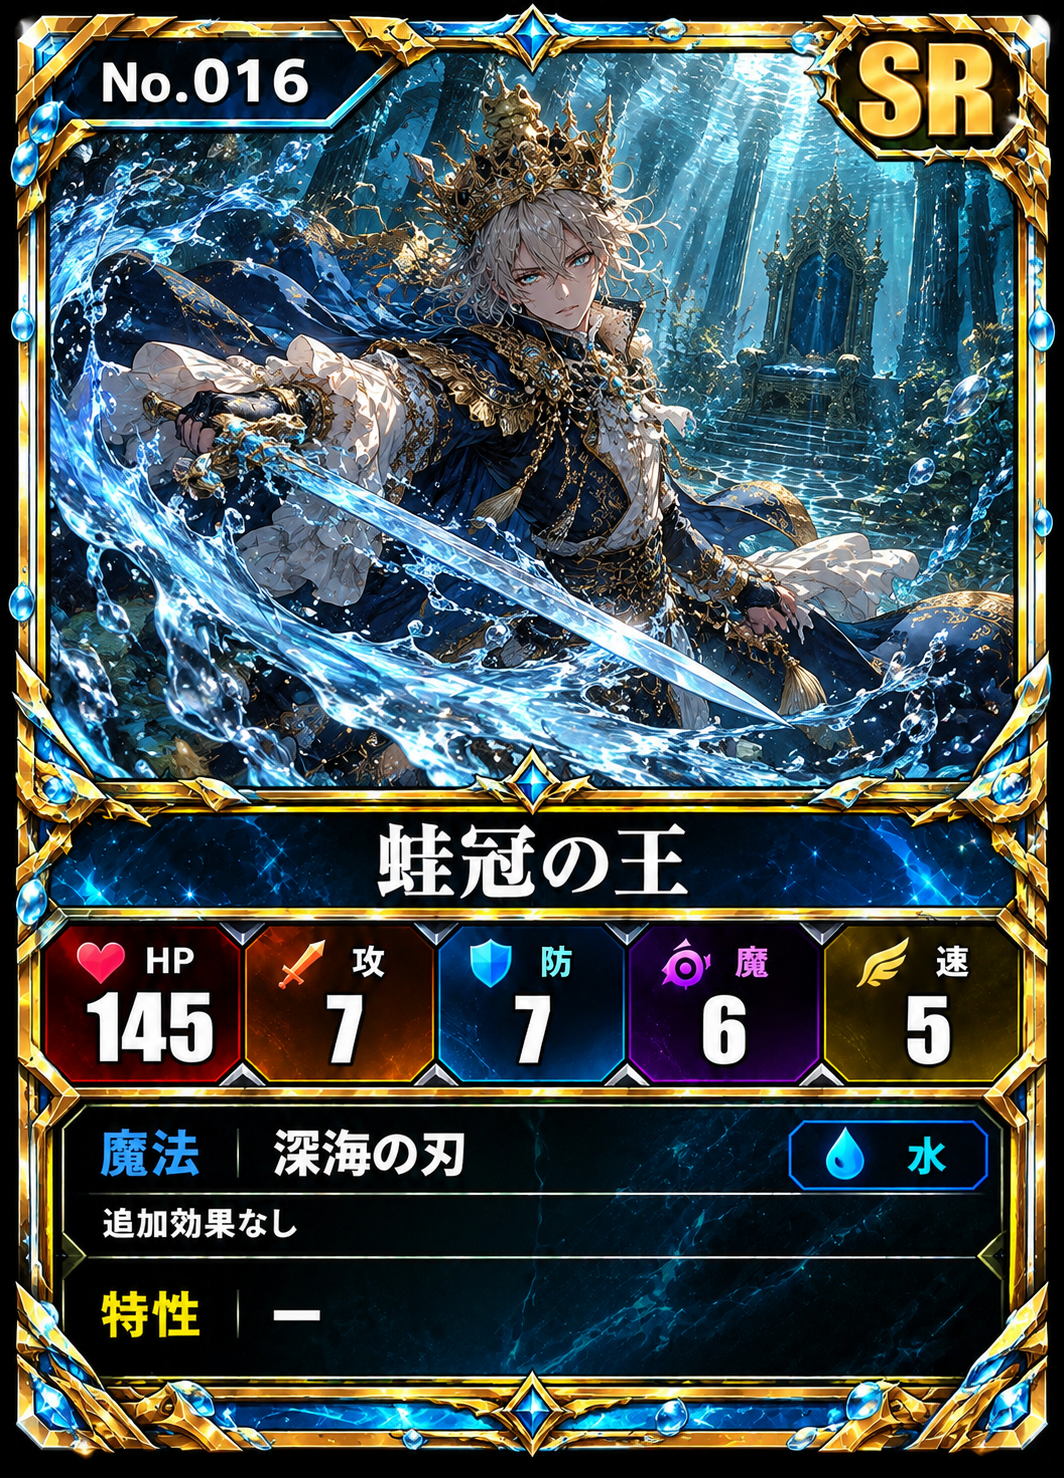
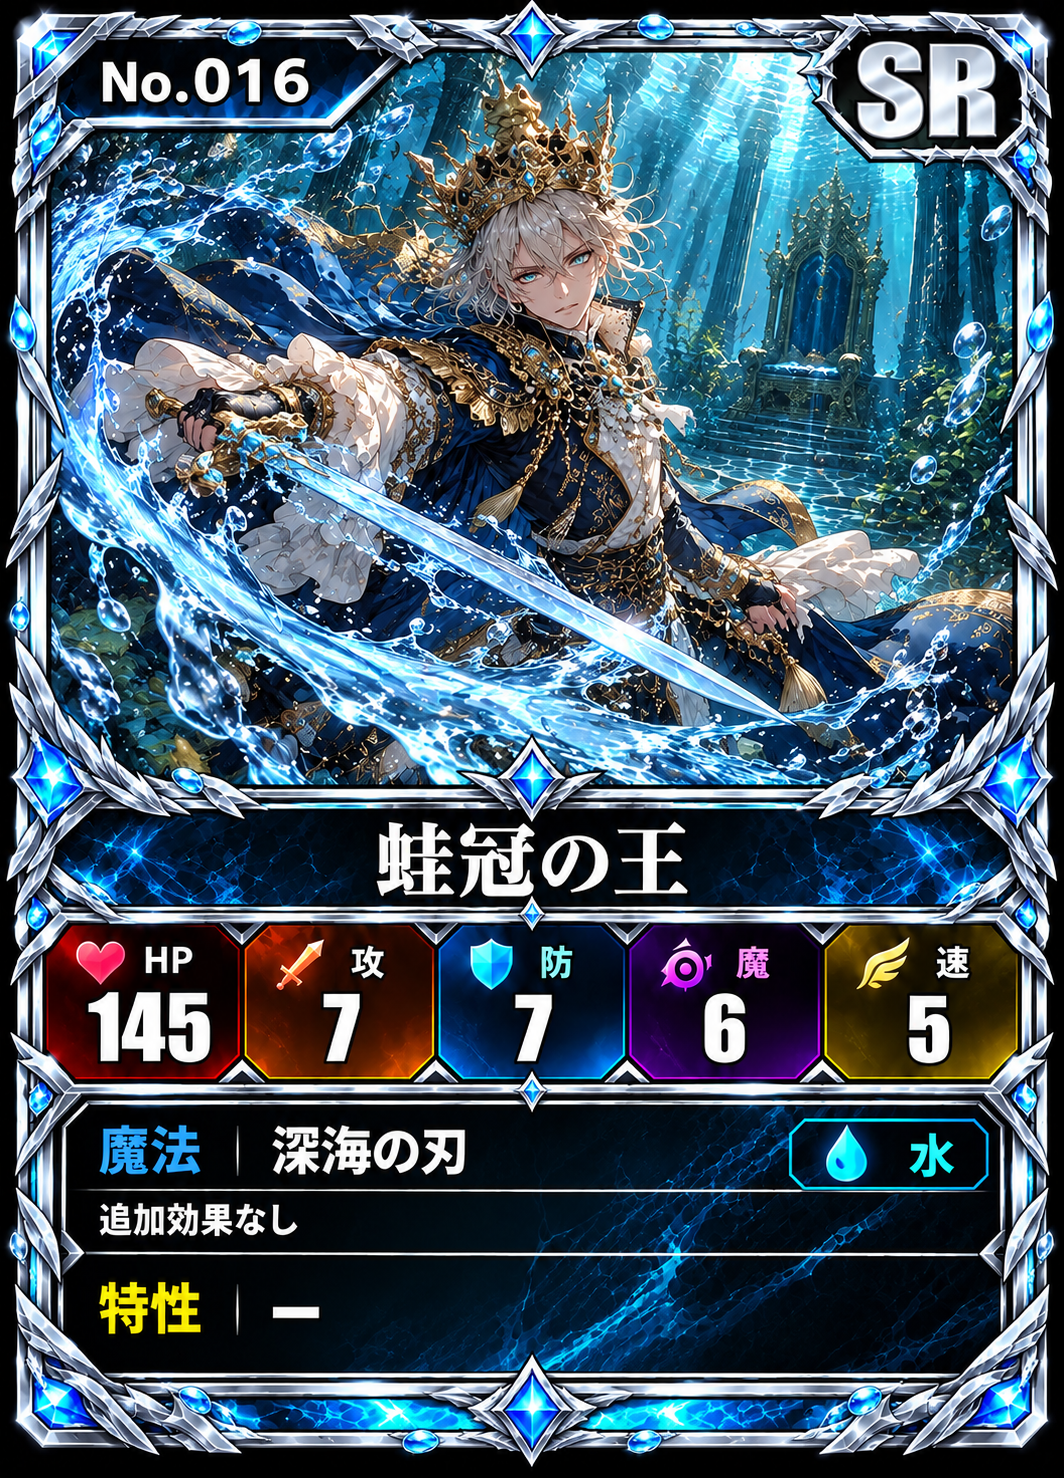
MYTHCLASH: No.016 蛙冠の王 を銀のわくの絵に差しかえ(前の絵は unused/)
Claude-Session: https://claude.ai/code/session_01MXithgTc5umkveoyZShZHQ

diff --git a/docs/MYTHCLASH.md b/docs/MYTHCLASH.md
@@ -187,7 +187,7 @@
 - 絵がかぶらないように、カードごとに「写す広さ・カメラの高さ・動き・光の方向・主な色」の2〜3個を変えた構図の文を Claude が作る（企画者 2026-10-28）。
   - No.008 菓子牢の魔女：表どおり（(50%) も描いてあった）。
 - 届いたカード：No.001〜029・101。
-- 2026-10-29：これから描くSRのカードは、わくを銀色にする（企画者）。前に届いたSR（No.001・014・016）は金のわくのまま。No.021・028 は銀のわくの絵に差しかえた
+- 2026-10-29：これから描くSRのカードは、わくを銀色にする（企画者）。前に届いたSR（No.001・014）は金のわくのまま。No.016・021・028 は銀のわくの絵に差しかえた
 
 ### 名前を BLOOD TOWER に（2026-10-27）【確定】
 - 企画者「ストーリーじゃなくて BLOOD TOWER にしよう」→ モードえらびのボタンを「🏰 BLOOD TOWER」に。
